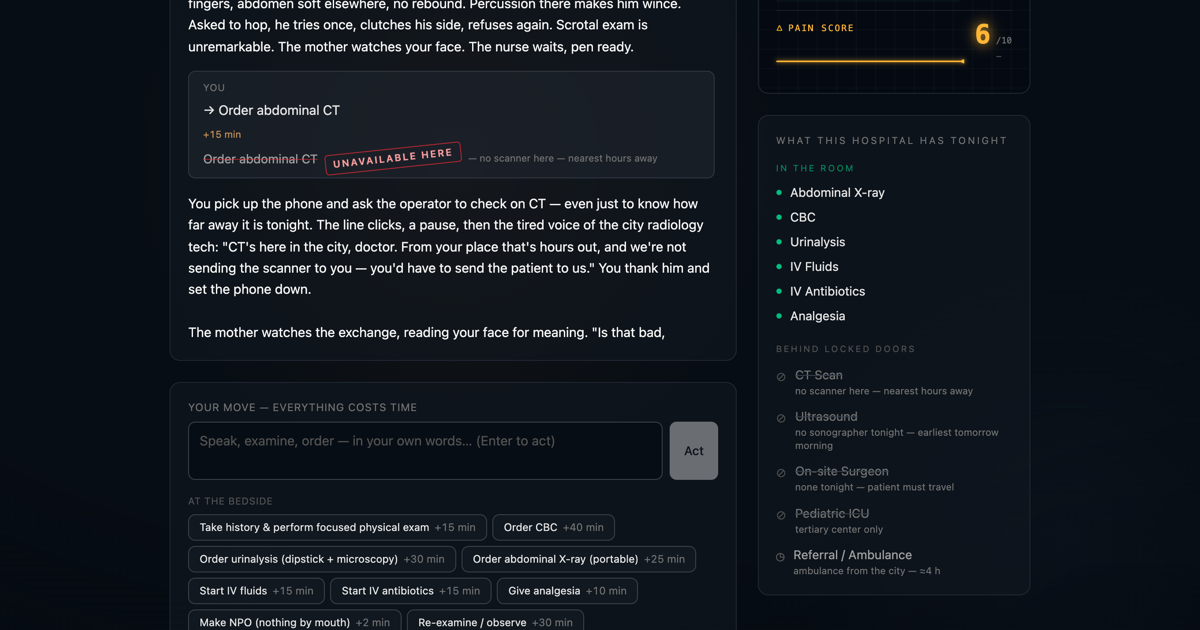
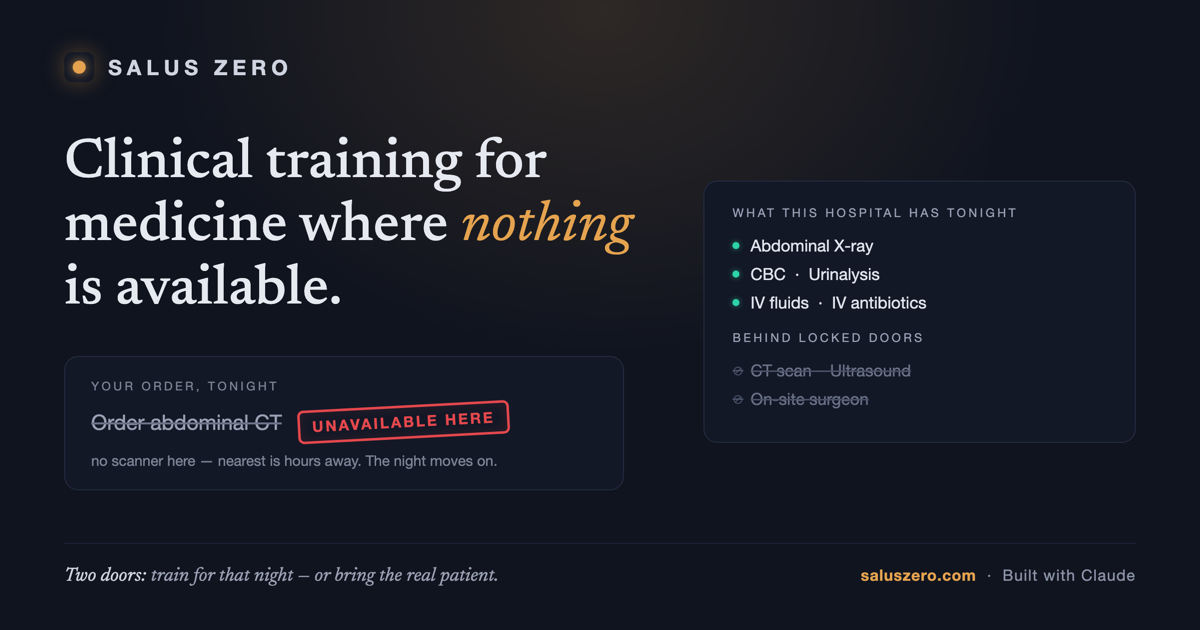
The README opens its eyes: two frames from the night itself, and the unfurl card joins the room

diff --git a/README.md b/README.md
@@ -20,7 +20,7 @@ patient** and decide with what you actually have.
 
 Built solo with Claude Code by a practicing pediatric surgery resident.
 
-![Ordering a CT in a hospital that has none: the request is struck out and stamped UNAVAILABLE HERE, and the night moves on](docs/img/unavailable-here.png)
+![The scored night in full: the CT order struck out and stamped UNAVAILABLE HERE, the switchboard call that comes back empty, the mother catching the refusal in your face — while the monitor holds SpO₂ and pain, the inventory lists what this hospital has tonight, and every move at the bedside costs minutes](docs/img/unavailable-here.png)
 
 ---
 
@@ -45,7 +45,7 @@ code owns every number and gate; the model only narrates:
   ([`functions/lib/consultScore.ts`](functions/lib/consultScore.ts)) and handed
   to the model as data.
 
-![The consult companion reading a real intake: PAS and Alvarado computed in code with their arithmetic shown line by line, an intake-inconsistency stamp, and the mimic board — what else is not yet excluded, each with a way to rule it out using only what the clinic has](docs/img/consult-face.png)
+![The consult companion mid-consult, GROUNDED badge lit: it reads the doctor back, shows PAS and Alvarado with their arithmetic line by line under EQUIVOCAL stamps — and a WBC just typed into the labs panel has already moved the live code-computed scores, while the banner holds the line: prototype, no doses, no directives — it augments your judgement](docs/img/consult-face.png)
 
 **Architecture, in five lines.** The browser talks only to Cloudflare Pages
 Functions (`/api/*`); each function builds the prompt, calls Anthropic, and